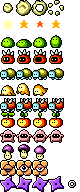
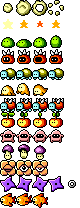
Fish & stuff

diff --git a/src/enemy.ts b/src/enemy.ts
@@ -43,6 +43,8 @@ export class Enemy extends CollisionObject {
     protected canBeStomped : boolean;
     protected canBeSpun : boolean;
     protected knockOnStomp : boolean;
+    protected killOnStomp : boolean;
+    protected dieOnProjectile : boolean;
 
     protected ghost : boolean;
 
@@ -98,6 +100,8 @@ export class Enemy extends CollisionObject {
         this.canBeStomped = true;
         this.canBeSpun = true;
         this.knockOnStomp = false;
+        this.killOnStomp = true;
+        this.dieOnProjectile = true;
 
         this.deathTimer = 0;
         this.deathMode = DeathMode.Normal;
@@ -370,6 +374,7 @@ export class Enemy extends CollisionObject {
         }
 
         if ((this.canBeStomped || this.knockDownTimer > 0) &&
+            (!player.isSwimming() || player.isSpinning()) &&
             player.getSpeed().y > SPEED_EPS &&
             px + hbox.x >= this.pos.x - this.hitbox.x/2 - STOMP_EXTRA_RANGE &&
             px <= this.pos.x + this.hitbox.x/2 + STOMP_EXTRA_RANGE &&
@@ -383,6 +388,7 @@ export class Enemy extends CollisionObject {
 
                 this.spinKnockback(player);
                 this.killSelf(player.progress, event, DeathMode.Spun);
+
                 return true;
             }
 
@@ -390,7 +396,7 @@ export class Enemy extends CollisionObject {
 
                 this.knockDown(false);
             }
-            else {
+            else if (this.killOnStomp || player.isDownAttacking()) {
 
                 this.killSelf(player.progress, event);
             }
@@ -417,7 +423,9 @@ export class Enemy extends CollisionObject {
         if (this.overlayObject(p)) {
 
             p.destroy(event);
-            this.killSelf(player.progress, event);
+
+            if (this.dieOnProjectile)
+                this.killSelf(player.progress, event);
 
             return true;
         }
@@ -938,10 +946,13 @@ export class FakeBlock extends Enemy {
 
         super(x, y-1, 8, entityID, false);
 
-        this.center = new Vector2(0, 1);
-        this.hitbox = new Vector2(12, 12);
+        this.center = new Vector2(0, 0);
+        this.collisionBox.y = 16;
+        this.hitbox = new Vector2(10, 10);
 
         this.canBeKnockedDown = false;
+        this.killOnStomp = false;
+        this.dieOnProjectile = false;
 
         this.phase = 0;
         this.shakeTimer = 0;
@@ -964,6 +975,7 @@ export class FakeBlock extends Enemy {
     protected updateAI(event : CoreEvent) { 
 
         const RETURN_SPEED = -1.0;
+        const EPS = 2.0;
 
         if (this.phase == 2) {
 
@@ -978,9 +990,9 @@ export class FakeBlock extends Enemy {
         }
         else if (this.phase == 3) {
 
-            if (this.pos.y < this.startPos.y) {
+            if (this.pos.y <= this.startPos.y + EPS) {
 
-                this.pos.y =  this.startPos.y;
+                this.pos.y = this.startPos.y;
                 this.stopMovement();
 
                 this.phase = 0;
@@ -1112,7 +1124,88 @@ export class Spinner extends Enemy {
 }
 
 
+export class Fish extends Enemy {
 
-const ENEMY_TYPES = [Slime, SpikeSlime, Turtle, Seal, SpikeTurtle, Apple, Imp, Mushroom, FakeBlock, Spinner];
+
+    private baseSpeed : number;
+    private wave : number;
+
+
+    constructor(x : number, y : number, entityID : number) { 
+
+        super(x, y+1, 10, entityID, false);
+
+        this.spr.setFrame(0, this.spr.getRow());
+
+        this.canBeKnockedDown = false;
+
+        this.collisionBox.y = 2;
+
+        this.center = new Vector2(0, 0);
+        this.hitbox = new Vector2(10, 8);
+
+        this.baseSpeed = 0;
+        this.wave = 0;
+
+        this.friction.y = 0.05;
+
+        this.respawnEvent();
+    }
+
+
+    protected respawnEvent() {
+
+        const SPEED = 0.20;
+
+        this.baseSpeed = this.dir * SPEED;
+        this.wave = 0;
+    }
+
+
+    protected updateAI(event : CoreEvent) { 
+
+        const WAVE_SPEED = 0.10;
+        const BASE_TARGET_Y = 0.25;
+        const EPS = 0.075;
+
+        if (this.oldCanJump && !this.canJump) {
+
+            this.pos.x -= this.speed.x * event.step;
+
+            this.baseSpeed *= -1;
+        }
+
+        this.target.x = this.baseSpeed;
+        this.speed.x = this.target.x;
+
+        this.wave = (this.wave + WAVE_SPEED * event.step) % (Math.PI * 2);
+        this.target.y = Math.sin(this.wave) * BASE_TARGET_Y;
+
+        let frame = 0;
+        if (this.speed.y < -EPS)
+            frame = 2;
+        else if (this.speed.y > EPS)
+            frame = 1;
+
+        this.spr.setFrame(frame, this.spr.getRow());
+
+        this.flip = this.baseSpeed > 0 ? Flip.Horizontal : Flip.None;
+    }
+
+
+    protected wallCollisionEvent(dir : number, event : CoreEvent) {
+
+        this.dir = -dir;
+        this.baseSpeed = Math.abs(this.baseSpeed) * this.dir;
+
+        this.target.x = this.baseSpeed;
+        this.speed.x = this.target.x;
+    }
+
+}
+
+
+
+const ENEMY_TYPES = [Slime, SpikeSlime, Turtle, Seal, SpikeTurtle, Apple, Imp, Mushroom, FakeBlock, Spinner, Fish];
 
 export const getEnemyType = (index : number) : Function => ENEMY_TYPES[clamp(index, 0, ENEMY_TYPES.length-1)];

diff --git a/src/objectmanager.ts b/src/objectmanager.ts
@@ -57,8 +57,8 @@ export class ObjectManager {
     private switches : Array<Switch>;
     private weakInteractionTargets : Array<WeakInteractionTarget>;
     private strongInteractionTargets : Array<StrongInteractionTarget>;
-    private doors : Array<Door>;
     private enemies : Array<Enemy>;
+    private doors : Array<Door>;
     
     // Refer to the weak interaction target array
     private stars : Array<Star>;
@@ -141,7 +141,7 @@ export class ObjectManager {
 
             this.strongInteractionTargets.push(d);
         }
-        this.doors = null;
+        // this.doors = null;
     }
 
 
@@ -410,6 +410,14 @@ export class ObjectManager {
             if (this.progress.doesValueExistInArray("items", c.id)) {
 
                 c.forceOpen();
+            }
+        }
+
+        for (let d of this.doors) {
+
+            if (this.progress.doesValueExistInArray("doors", d.id)) {
+
+                d.forceOpen();
             }
         }
 

diff --git a/src/door.ts b/src/door.ts
@@ -63,6 +63,8 @@ export class Door extends StrongInteractionTarget {
 
                 msg = event.localization.findValue(["open"]);
                 this.open = true;
+
+                player.progress.addValueToArray("doors", this.id, true);
             }
 
             if (msg == null) return;
@@ -105,5 +107,11 @@ export class Door extends StrongInteractionTarget {
         canvas.drawSprite(this.spr, bmp, 
             this.pos.x - this.spr.width/2,
             this.pos.y - 24);
+    }
+
+
+    public forceOpen() {
+
+        this.open = true;
     }
 }

diff --git a/src/player.ts b/src/player.ts
@@ -1339,4 +1339,7 @@ export class Player extends CollisionObject {
         this.deathTimer = 0;
         this.dying = true;
     }
+
+
+    public isSwimming = () : boolean => this.touchWater;
 }
